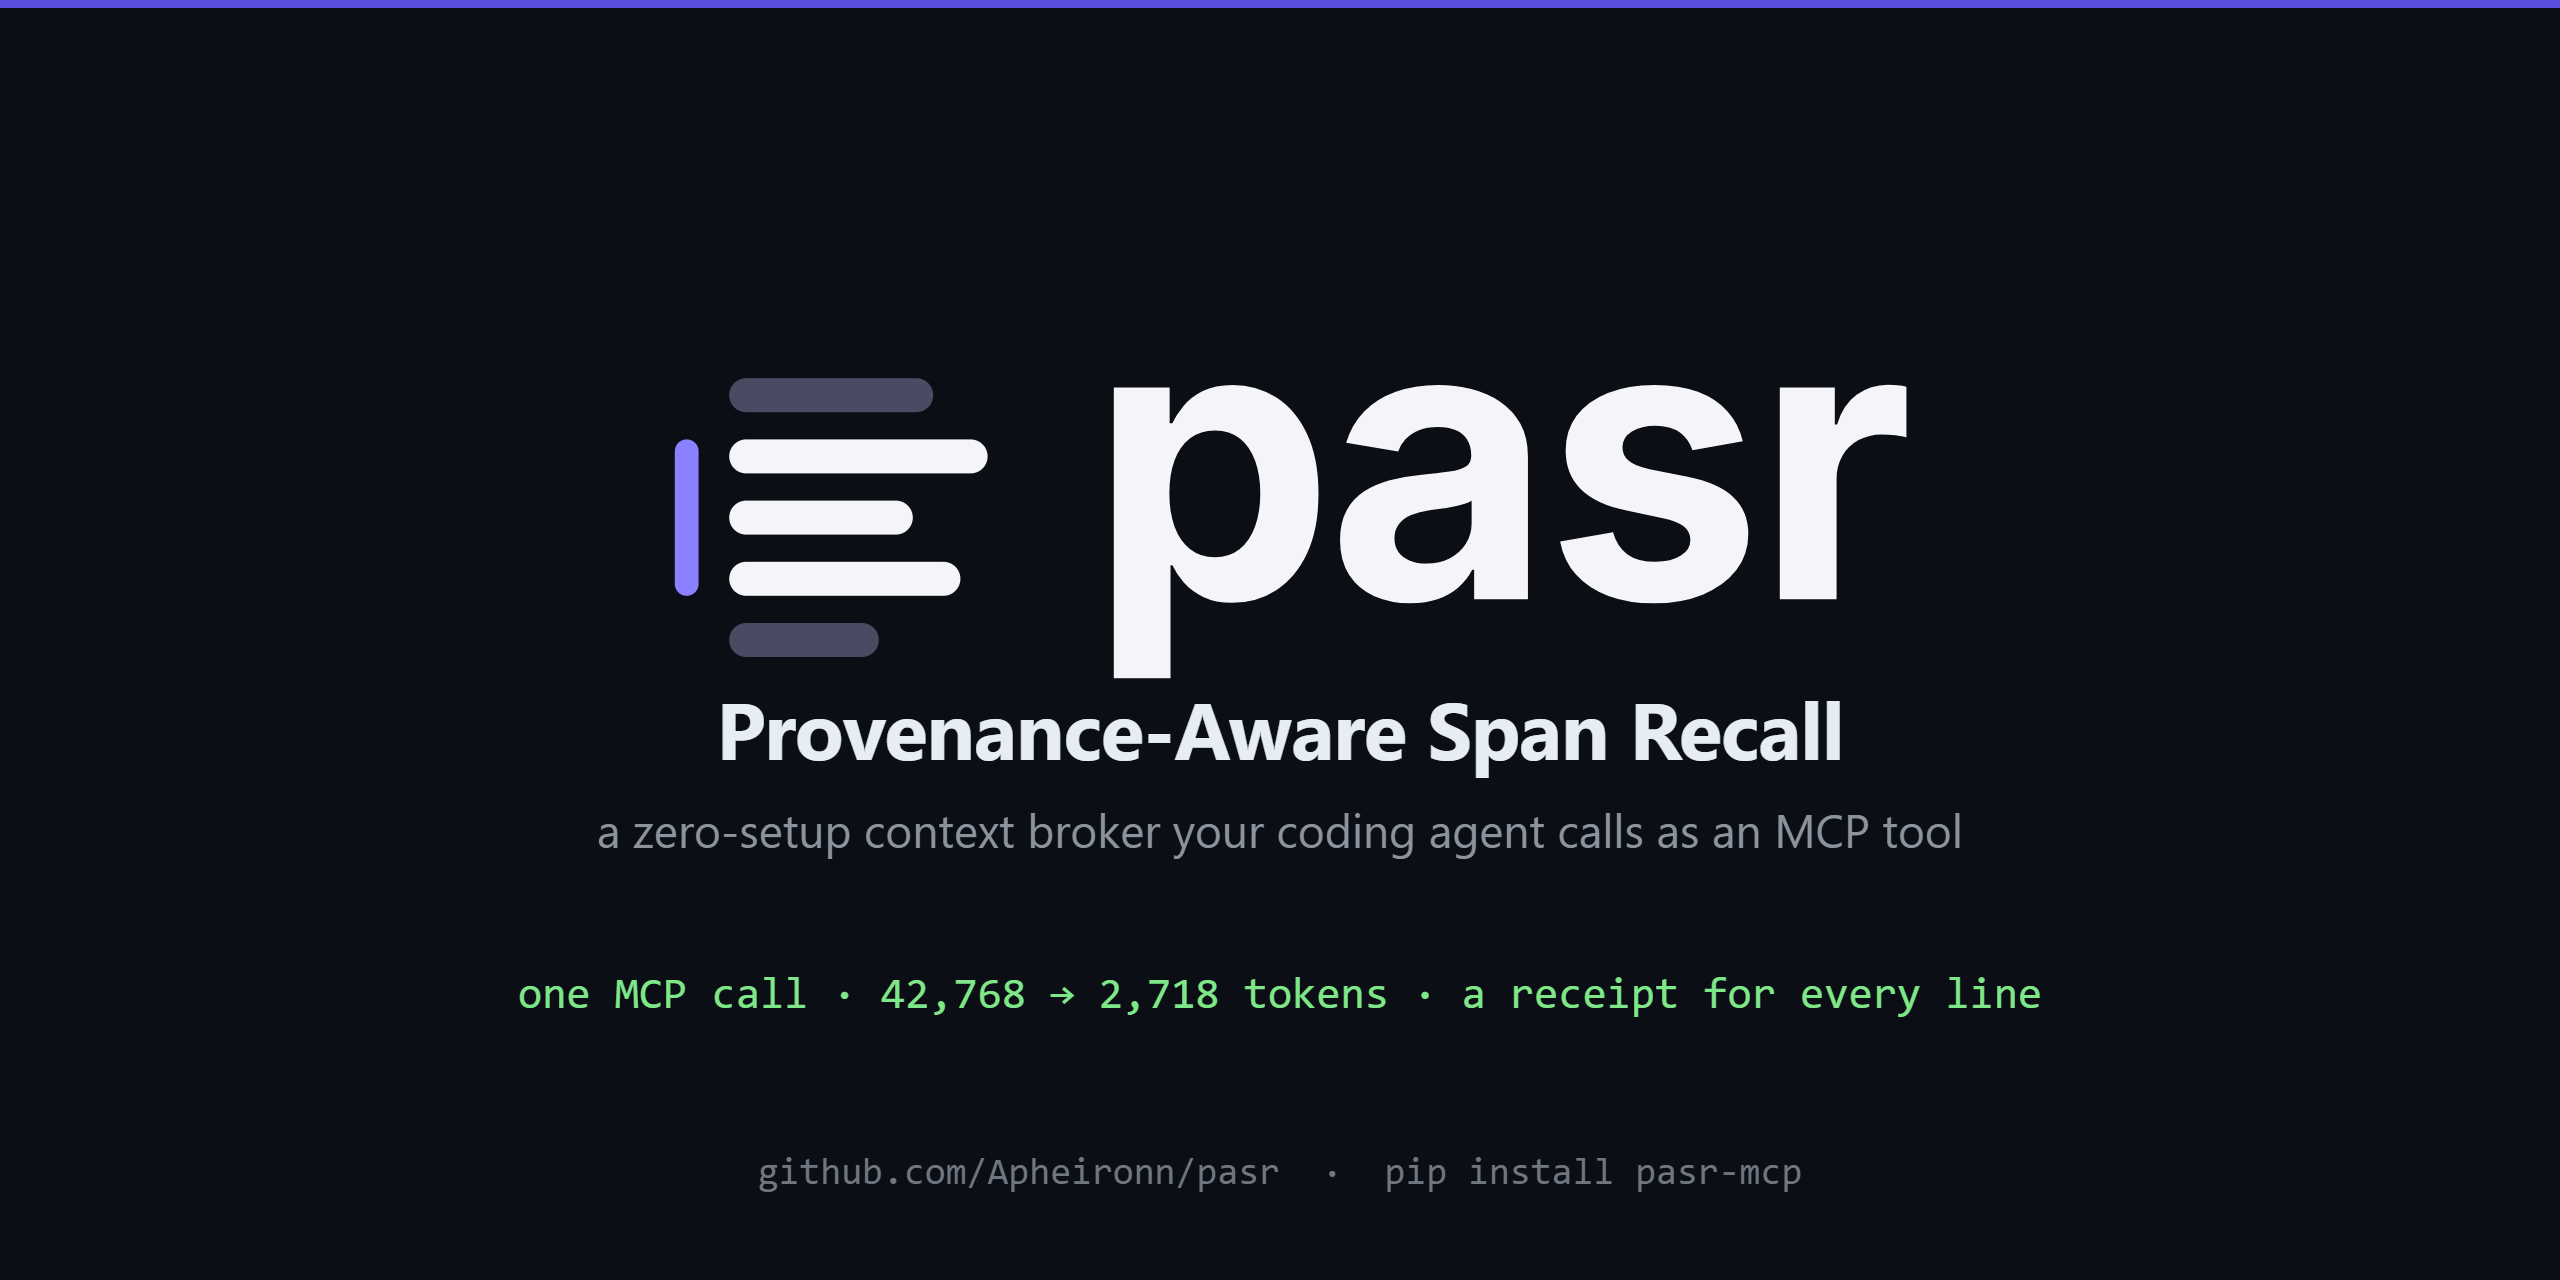
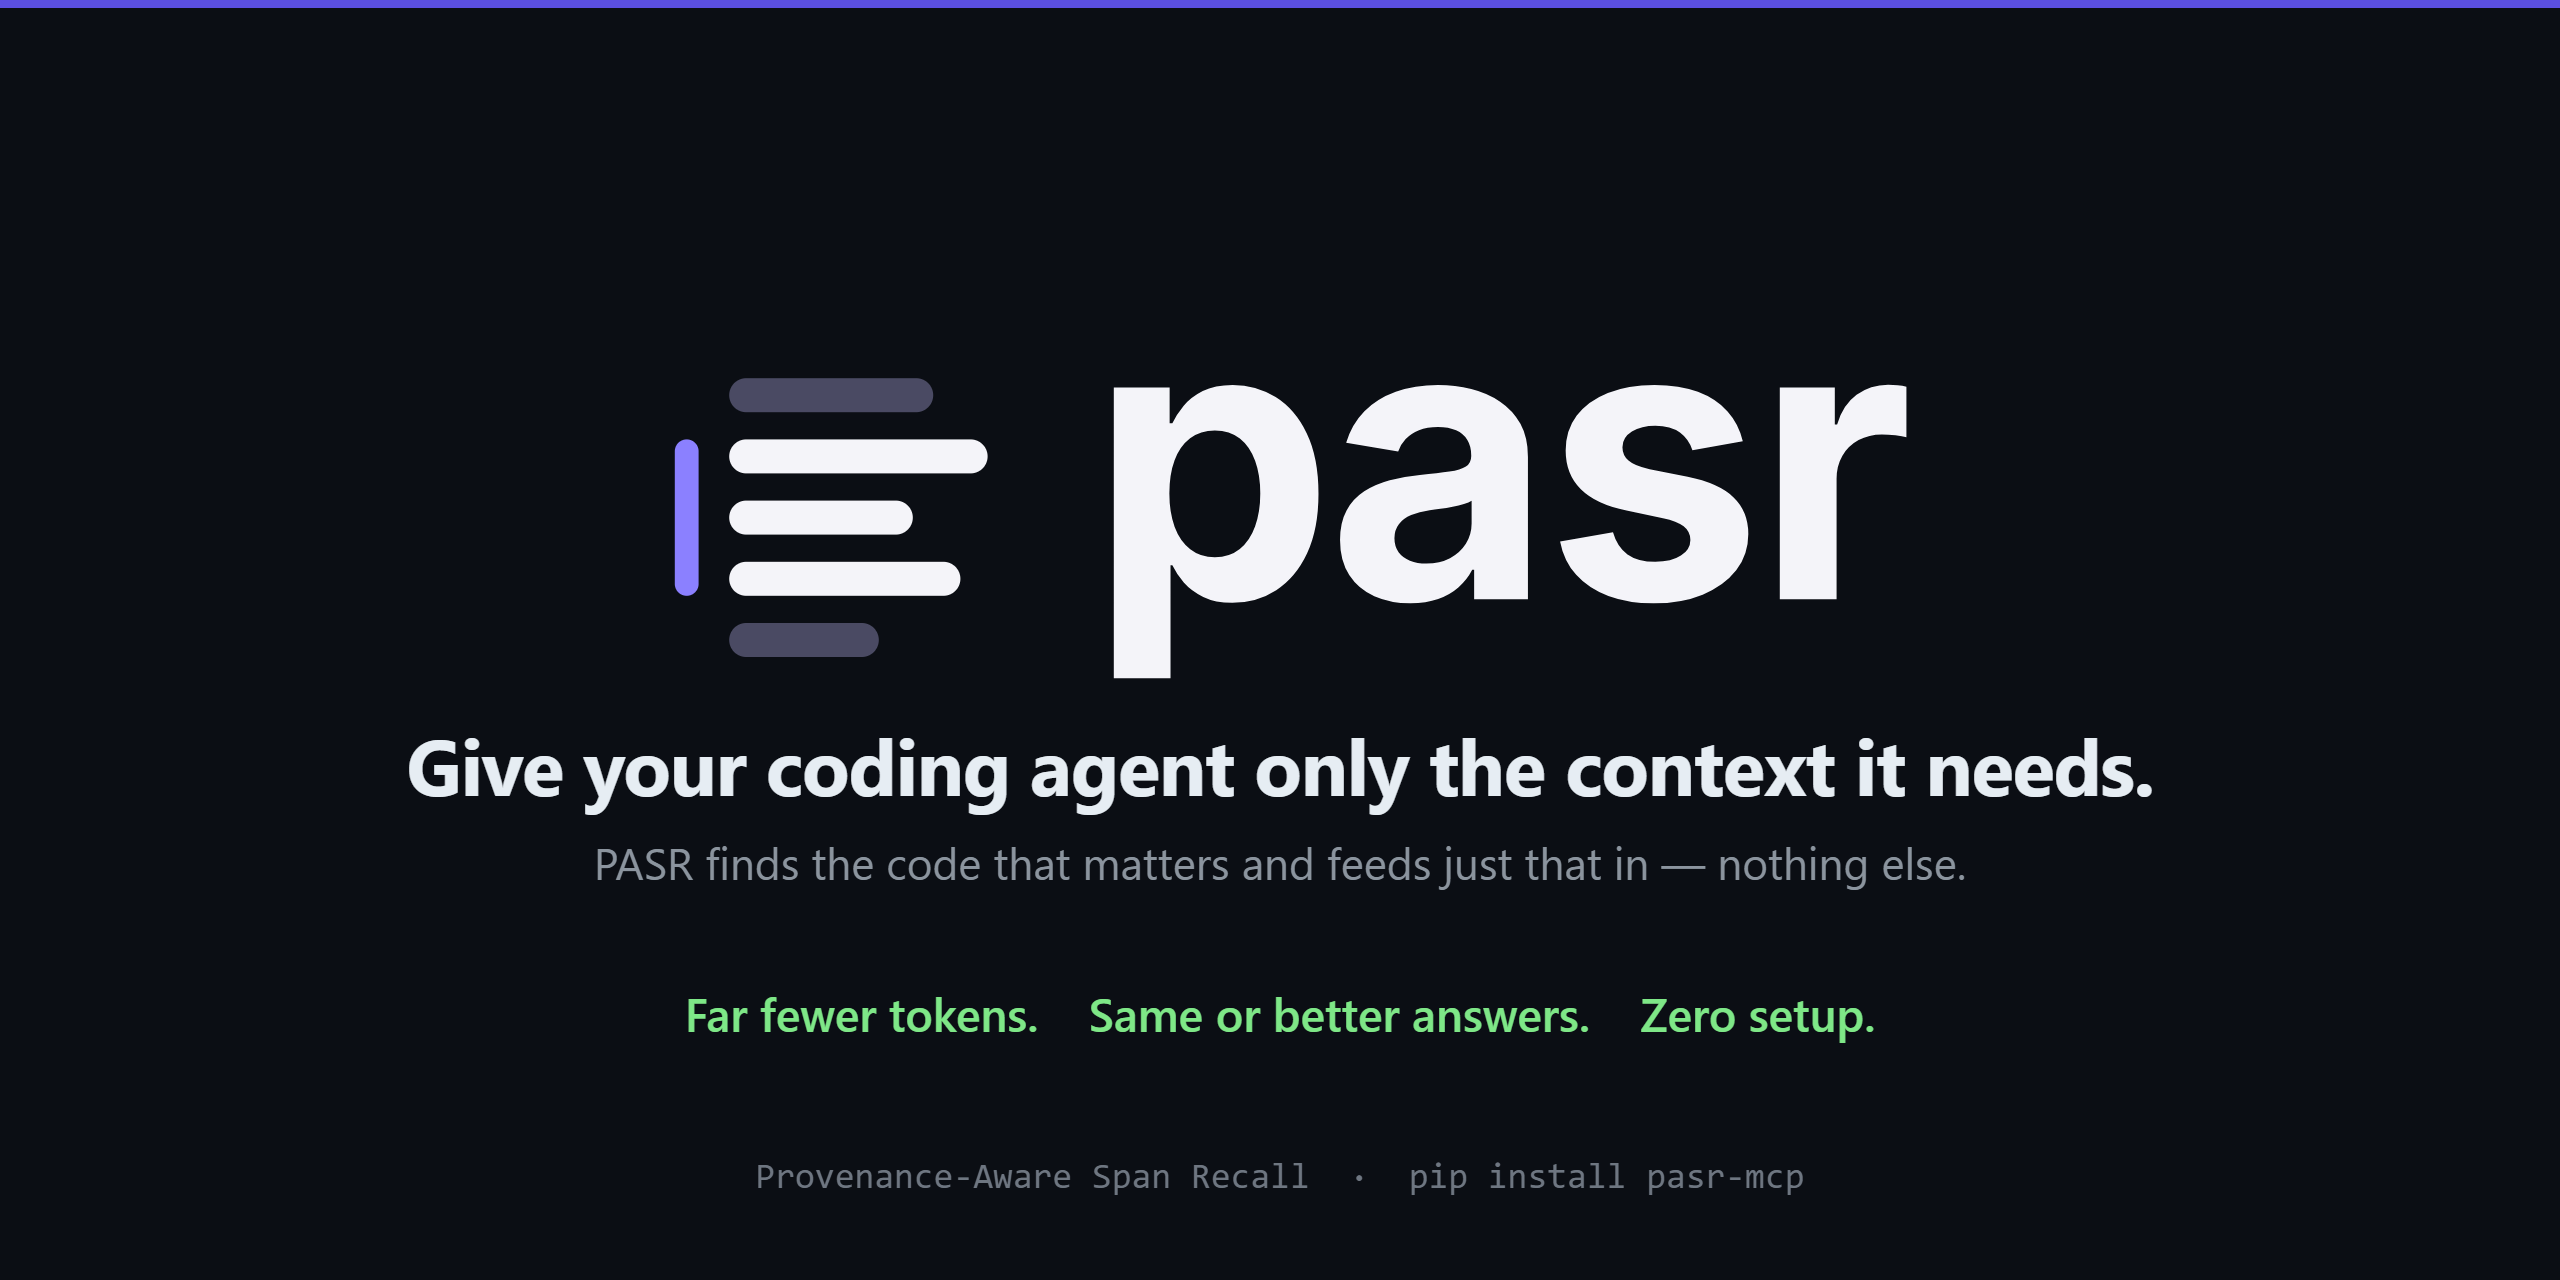
docs: benefit-led hero copy + social preview
Replace the 'zero-setup context broker … MCP tool' line with a plain,
outcome-first one: PASR gives the agent only the context it needs, so it
stays focused on the code that matters — far fewer tokens, same or better
answers. Applied to the README hero and the docs site header. The social
card is redesigned to match: a hook headline instead of the raw
42,768→2,718 figures, with a three-part payoff line.

diff --git a/docs/index.html b/docs/index.html
@@ -75,10 +75,9 @@
 <header>
   <div class="wrap">
     <h1>PASR
-      <span class="sub"><b>Provenance-Aware Span Recall</b> — a zero-setup context broker your
-      coding agent calls as an MCP tool. It hands the model the <i>few</i> lines that answer the
-      question, each with a <code>file:line</code> and the reason it was picked — and tells the
-      agent when it asked the wrong tool.</span>
+      <span class="sub"><b>Provenance-Aware Span Recall</b> — PASR gives your coding agent only
+      the context it needs, keeping it focused on the code that matters. Far fewer tokens, same
+      or better answers.</span>
     </h1>
     <div class="demo">
       <img src="assets/demo.svg" alt="pasr explain — one MCP call, 42,768 to 2,718 tokens, a receipt for every line">

diff --git a/README.md b/README.md
@@ -6,10 +6,8 @@
 </p>
 
 <p align="center">
-  <b>Provenance-Aware Span Recall</b> — a zero-setup context broker your coding agent calls
-  as an MCP tool. It hands the model the <i>few</i> lines that answer the question, each with
-  a <code>file:line</code> and the reason it was picked — and tells the agent when it asked
-  the wrong tool.
+  <b>Provenance-Aware Span Recall</b> — PASR gives your coding agent only the context it needs,
+  keeping it focused on the code that matters. Far fewer tokens, same or better answers.
 </p>
 
 [![PyPI](https://img.shields.io/pypi/v/pasr-mcp)](https://pypi.org/project/pasr-mcp/)
